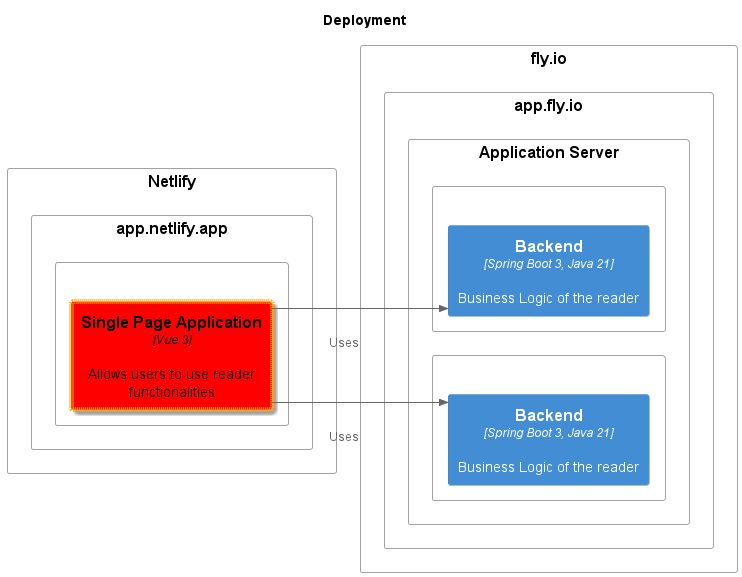
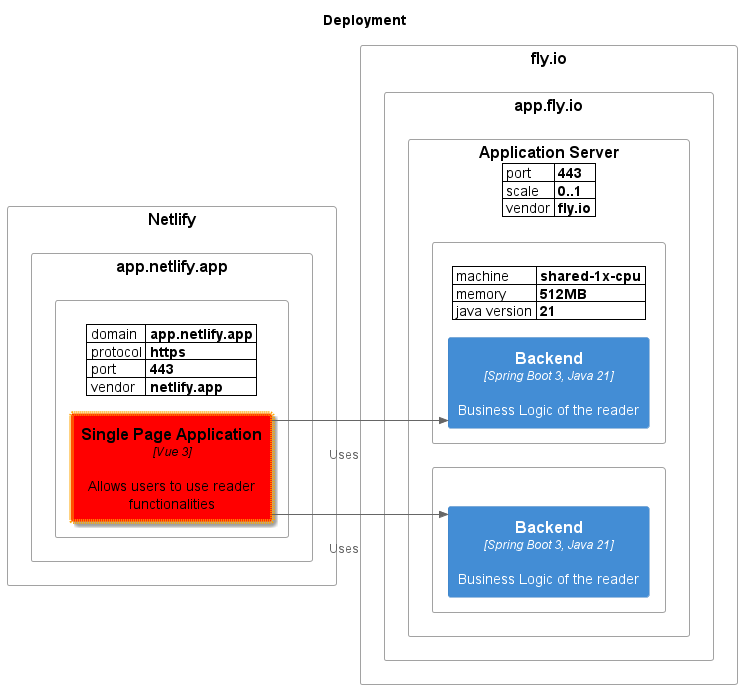
add properties to elements and relations

diff --git a/src/main/java/it/vitalegi/archi/exporter/c4/plantuml/writer/C4PlantumlWriter.java b/src/main/java/it/vitalegi/archi/exporter/c4/plantuml/writer/C4PlantumlWriter.java
@@ -1,17 +1,19 @@
 package it.vitalegi.archi.exporter.c4.plantuml.writer;
 
-import it.vitalegi.archi.exporter.c4.plantuml.constants.Direction;
 import it.vitalegi.archi.model.diagramelement.C4DiagramElement;
+import it.vitalegi.archi.model.diagramelement.C4DiagramElementProperty;
 import it.vitalegi.archi.model.diagramelement.C4DiagramRelation;
 import it.vitalegi.archi.model.element.Element;
 import it.vitalegi.archi.model.relation.DirectRelation;
 import it.vitalegi.archi.model.style.ElementTag;
 import it.vitalegi.archi.model.style.LineStyle;
 import it.vitalegi.archi.model.style.RelationTag;
+import lombok.extern.slf4j.Slf4j;
 
 import java.util.Formatter;
 import java.util.List;
 
+@Slf4j
 public class C4PlantumlWriter extends PlantumlWriter {
 
     public void addElementTag(ElementTag tag) {
@@ -32,16 +34,13 @@ public class C4PlantumlWriter extends PlantumlWriter {
                 alias, textColor, lineColor, lineStyle != null ? lineStyle : null, sprite, techn, legendText, legendSprite, lineThickness));
     }
 
-    public void deploymentNodeStart(Element element) {
-        deploymentNodeStart(getAlias(element), element.getName(), null, element.getDescription(), "", formatTags(element), "");
-    }
-
     public void deploymentNodeStart(C4DiagramElement element) {
-        deploymentNodeStart(getAlias(element), element.getName(), null, element.getDescription(), "", formatTags(element), "");
+        deploymentNodeStart(getAlias(element), element.getName(), null, element.getDescription(), "", formatTags(element), "", element.getProperties());
     }
 
-    protected void deploymentNodeStart(String alias, String label, String type, String description, String sprite, String tags, String link) {
+    protected void deploymentNodeStart(String alias, String label, String type, String description, String sprite, String tags, String link, List<C4DiagramElementProperty> properties) {
         println(format("Deployment_Node(%s, %s, $type=\"%s\", $descr=\"%s\", $sprite=\"%s\", $tags=\"%s\", $link=\"%s\") {", alias, label, type, description, sprite, tags, link));
+        addProperties(properties);
         increaseTab();
     }
 
@@ -52,6 +51,7 @@ public class C4PlantumlWriter extends PlantumlWriter {
 
     public void boundaryStart(C4DiagramElement element) {
         boundaryStart(getAlias(element), element.getName(), formatTags(element));
+        addProperties(element);
     }
 
     protected void boundaryStart(String alias, String label, String tags) {
@@ -65,11 +65,20 @@ public class C4PlantumlWriter extends PlantumlWriter {
     }
 
     public void container(C4DiagramElement element) {
-        container(getAlias(element), element.getName(), formatTechnologies(element), element.getDescription(), "", formatTags(element), "", element.getShape());
+        container(getAlias(element), element.getName(), formatTechnologies(element), element.getDescription(), "", formatTags(element), "", element.getShape(), element.getProperties());
     }
 
-    protected void container(String alias, String label, String technology, String description, String sprite, String tags, String link, String shape) {
-        println(format("Container($alias=\"%s\", $label=\"%s\", $techn=\"%s\", $descr=\"%s\", $sprite=\"%s\", $tags=\"%s\", $link=\"%s\", $baseShape=\"%s\")", alias, label, technology, description, sprite, tags, link, shape));
+    protected void container(String alias, String label, String technology, String description, String sprite, String tags, String link, String shape, List<C4DiagramElementProperty> properties) {
+        print(format("Container($alias=\"%s\", $label=\"%s\", $techn=\"%s\", $descr=\"%s\", $sprite=\"%s\", $tags=\"%s\", $link=\"%s\", $baseShape=\"%s\")", alias, label, technology, description, sprite, tags, link, shape));
+        if (!properties.isEmpty()) {
+            increaseTab();
+            println(" {");
+            addProperties(properties);
+            decreaseTab();
+            println("}");
+        } else {
+            println("");
+        }
     }
 
     public void withoutPropertyHeader() {
@@ -84,20 +93,8 @@ public class C4PlantumlWriter extends PlantumlWriter {
         println(format("AddProperty(\"%s\",\"%s\")", col1, col2));
     }
 
-    public void addProperty(String col1, String col2, String col3) {
-        println(format("AddProperty(\"%s\",\"%s\",\"%s\")", col1, col2, col3));
-    }
-
-    public void addProperty(String col1, String col2, String col3, String col4) {
-        println(format("AddProperty(\"%s\",\"%s\",\"%s\",\"%s\")", col1, col2, col3, col4));
-    }
-
     public void addRelation(DirectRelation relation) {
         addRelation("Rel", relation);
-    }
-
-    public void addRelation(Direction direction, DirectRelation relation) {
-        addRelation(direction.getRelationKeyword(), relation);
     }
 
     public void addRelation(String command, DirectRelation relation) {
@@ -109,9 +106,22 @@ public class C4PlantumlWriter extends PlantumlWriter {
     }
 
     protected void addRelation(String command, String aliasFrom, String aliasTo, String label, String technology, String description, String sprite, String tags, String link) {
-        //$from, $to, $label, $techn="", $descr="", $sprite="", $tags="", $link=""
         println(format("%s($from=\"%s\", $to=\"%s\", $label=\"%s\", $techn=\"%s\", $descr=\"%s\", $sprite=\"%s\", $tags=\"%s\", $link=\"%s\")", //
                 command, aliasFrom, aliasTo, label, technology, description, sprite, tags, link));
+    }
+
+    public void addProperties(C4DiagramElement element) {
+        addProperties(element.getProperties());
+    }
+
+    protected void addProperties(List<C4DiagramElementProperty> properties) {
+        if (properties == null || properties.isEmpty()) {
+            return;
+        }
+        println("WithoutPropertyHeader()");
+        for (var property : properties) {
+            addProperty(property.getCol1(), property.getCol2());
+        }
     }
 
     public void hideStereotypes() {

diff --git a/src/test/java/it/vitalegi/archi/exporter/c4/plantuml/builder/AllDiagramsModelBuilderTests.java b/src/test/java/it/vitalegi/archi/exporter/c4/plantuml/builder/AllDiagramsModelBuilderTests.java
@@ -5,6 +5,7 @@ import it.vitalegi.archi.model.diagram.DeploymentDiagram;
 import it.vitalegi.archi.model.diagram.DiagramOptions;
 import it.vitalegi.archi.model.diagram.LandscapeDiagram;
 import it.vitalegi.archi.model.diagram.SystemContextDiagram;
+import it.vitalegi.archi.model.diagramelement.C4DiagramElementProperty;
 import it.vitalegi.archi.util.C4DiagramModelUtil;
 import it.vitalegi.archi.visitor.DiagramVisitor;
 import it.vitalegi.archi.workspaceloader.model.DeploymentDiagramRaw;
@@ -18,6 +19,9 @@ import org.junit.jupiter.api.Nested;
 import org.junit.jupiter.api.Test;
 import org.junit.jupiter.api.extension.ExtendWith;
 import org.mockito.junit.jupiter.MockitoExtension;
+
+import java.util.ArrayList;
+import java.util.HashMap;
 
 import static it.vitalegi.archi.util.WorkspaceTestUtil.b;
 import static it.vitalegi.archi.util.WorkspaceTestUtil.load;
@@ -115,7 +119,7 @@ public class AllDiagramsModelBuilderTests {
         }
     }
 
-    @DisplayName("GIVEN inherited relations and direct relation between same elements THEN only direct relation is in the model")
+    @DisplayName("GIVEN hideRelationsText=true THEN labels and descriptions on relations are hidden")
     @Nested
     class HideRelationsText implements DiagramVisitor<Void> {
 
@@ -191,6 +195,93 @@ public class AllDiagramsModelBuilderTests {
             for (var relation : relations) {
                 assertNull(relation.getDescription(), "Relation " + relation + " must have null description");
                 assertNull(relation.getLabel(), "Relation " + relation + " must have null label");
+            }
+        }
+    }
+
+
+    @DisplayName("GIVEN elements and relations with properties THEN properties are in the model")
+    @Nested
+    class ElementsAndRelationsWithProperties implements DiagramVisitor<Void> {
+
+        Workspace ws;
+
+        @BeforeEach
+        void init() {
+            var options = DiagramOptions.builder().hideRelationsText(true).build();
+            var props = new HashMap<String, String>();
+            props.put("key1", "value1");
+            props.put("key2", "value2");
+            ws = load(b() //
+                    .element(ElementRaw.softwareSystem().id("A").metadata(props)) //
+                    .element(ElementRaw.container().parentId("A").id("C1").metadata(props)) //
+
+                    .element(ElementRaw.softwareSystem().id("B").metadata(props)) //
+                    .element(ElementRaw.container().parentId("B").id("C2").metadata(props)) //
+
+                    .relation(RelationRaw.builder().from("A").to("B").metadata(props)) //
+                    .relation(RelationRaw.builder().from("C1").to("C2").metadata(props)) //
+                    .relation(RelationRaw.builder().from("C1").to("B").metadata(props)) //
+
+                    .deploymentEnvironment("env") //
+                    .deploymentNode("env", "node") //
+                    .softwareSystemInstance("node", "si1", "A") //
+                    .softwareSystemInstance("node", "si2", "B") //
+
+                    .landscapeDiagram(LandscapeDiagramRaw.builder().name("landscape").options(options)) //
+                    .systemContextDiagram(SystemContextDiagramRaw.builder().name("systemContext").target("A").options(options)) //
+                    .deploymentDiagram(DeploymentDiagramRaw.all("deployment", "env").options(options)) //
+            );
+        }
+
+        @Test
+        void landscapeDiagram() {
+            ws.getDiagrams().getByName("landscape").visit(this);
+        }
+
+        @Test
+        void systemContextDiagram() {
+            ws.getDiagrams().getByName("systemContext").visit(this);
+        }
+
+        @Test
+        void deploymentDiagram() {
+            ws.getDiagrams().getByName("deployment").visit(this);
+        }
+
+        @Override
+        public Void visitLandscapeDiagram(LandscapeDiagram diagram) {
+            var model = AllDiagramsModelBuilderTests.landscapeDiagram(ws, diagram);
+            check(model);
+            return null;
+        }
+
+        @Override
+        public Void visitSystemContextDiagram(SystemContextDiagram diagram) {
+            var model = AllDiagramsModelBuilderTests.systemContextDiagram(ws, diagram);
+            check(model);
+            return null;
+        }
+
+        @Override
+        public Void visitDeploymentDiagram(DeploymentDiagram diagram) {
+            var model = AllDiagramsModelBuilderTests.deploymentDiagram(ws, diagram);
+            check(model);
+            return null;
+        }
+
+        protected void check(C4DiagramModelUtil model) {
+            var expected = new ArrayList<C4DiagramElementProperty>();
+            expected.add(new C4DiagramElementProperty("key1", "value1"));
+            expected.add(new C4DiagramElementProperty("key2", "value2"));
+
+            var b = model.findByAlias("SoftwareSystem_B");
+            assertEquals(expected, b.getProperties());
+
+            var relations = model.findAllRelations();
+            assertNotEquals(0, relations.size());
+            for (var relation : relations) {
+                assertEquals(expected, relation.getProperties(), "Relation " + relation + " doesn't have correct properties");
             }
         }
     }

diff --git a/src/main/java/it/vitalegi/archi/exporter/c4/plantuml/builder/DiagramElementFactoryVisitor.java b/src/main/java/it/vitalegi/archi/exporter/c4/plantuml/builder/DiagramElementFactoryVisitor.java
@@ -16,6 +16,7 @@ import it.vitalegi.archi.model.element.InfrastructureNode;
 import it.vitalegi.archi.model.element.Person;
 import it.vitalegi.archi.model.element.SoftwareSystem;
 import it.vitalegi.archi.model.element.SoftwareSystemInstance;
+import it.vitalegi.archi.util.ModelPropertyUtil;
 import it.vitalegi.archi.visitor.ElementVisitor;
 import lombok.AllArgsConstructor;
 
@@ -92,17 +93,10 @@ public class DiagramElementFactoryVisitor implements ElementVisitor<C4DiagramEle
         out.setDescription(element.getDescription());
         out.setTags(element.getTags());
         out.setTechnologies(element.getTechnologies());
-        out.setProperties(properties(element));
+        out.setProperties(ModelPropertyUtil.properties(element.getMetadata()));
 
         var shape = new PlantumlShapeElementVisitor();
         out.setShape(element.visit(shape));
         return out;
-    }
-
-    protected List<C4DiagramElementProperty> properties(Element element) {
-        if (element.getMetadata() == null) {
-            return Collections.emptyList();
-        }
-        return element.getMetadata().entrySet().stream().map(e -> new C4DiagramElementProperty(e.getKey(), e.getValue())).collect(Collectors.toList());
     }
 }

diff --git a/src/main/java/it/vitalegi/archi/exporter/c4/plantuml/builder/C4DiagramRelationFactoryVisitor.java b/src/main/java/it/vitalegi/archi/exporter/c4/plantuml/builder/C4DiagramRelationFactoryVisitor.java
@@ -4,6 +4,7 @@ import it.vitalegi.archi.model.diagram.Diagram;
 import it.vitalegi.archi.model.diagramelement.C4DiagramRelation;
 import it.vitalegi.archi.model.relation.DirectRelation;
 import it.vitalegi.archi.model.relation.ImplicitRelation;
+import it.vitalegi.archi.util.ModelPropertyUtil;
 import it.vitalegi.archi.visitor.RelationVisitor;
 import lombok.AllArgsConstructor;
 
@@ -41,6 +42,7 @@ public class C4DiagramRelationFactoryVisitor implements RelationVisitor<C4Diagra
         target.setLink(relation.getLink());
         target.setSprite(relation.getSprite());
         target.setTechnologies(relation.getTechnologies());
+        target.setProperties(ModelPropertyUtil.properties(relation.getMetadata()));
     }
 
 }

diff --git a/src/main/java/it/vitalegi/archi/util/ModelPropertyUtil.java b/src/main/java/it/vitalegi/archi/util/ModelPropertyUtil.java
@@ -1,0 +1,17 @@
+package it.vitalegi.archi.util;
+
+import it.vitalegi.archi.model.diagramelement.C4DiagramElementProperty;
+
+import java.util.Collections;
+import java.util.List;
+import java.util.Map;
+import java.util.stream.Collectors;
+
+public class ModelPropertyUtil {
+    public static List<C4DiagramElementProperty> properties(Map<String, String> properties) {
+        if (properties == null) {
+            return Collections.emptyList();
+        }
+        return properties.entrySet().stream().map(e -> new C4DiagramElementProperty(e.getKey(), e.getValue())).collect(Collectors.toList());
+    }
+}

diff --git a/src/test/java/it/vitalegi/archi/util/C4DiagramModelUtil.java b/src/test/java/it/vitalegi/archi/util/C4DiagramModelUtil.java
@@ -16,6 +16,9 @@ public class C4DiagramModelUtil {
         this.model = model;
     }
 
+    public C4DiagramElement findByAlias(String alias) {
+        return getAllElements().filter(e -> alias.equals(e.getId())).findFirst().orElse(null);
+    }
 
     public C4DiagramElement findByAliasesPath(String... aliases) {
         if (aliases.length == 0) {

diff --git a/src/main/java/it/vitalegi/archi/model/diagramelement/C4DiagramElementProperty.java b/src/main/java/it/vitalegi/archi/model/diagramelement/C4DiagramElementProperty.java
@@ -8,8 +8,6 @@ import lombok.NoArgsConstructor;
 public class C4DiagramElementProperty {
     String col1;
     String col2;
-    String col3;
-    String col4;
 
     public C4DiagramElementProperty(String col1, String col2) {
         this.col1 = col1;

diff --git a/src/main/java/it/vitalegi/archi/model/diagramelement/C4DiagramRelation.java b/src/main/java/it/vitalegi/archi/model/diagramelement/C4DiagramRelation.java
@@ -18,4 +18,5 @@ public class C4DiagramRelation {
     List<String> technologies;
     List<String> tags;
     String link;
+    List<C4DiagramElementProperty> properties;
 }
